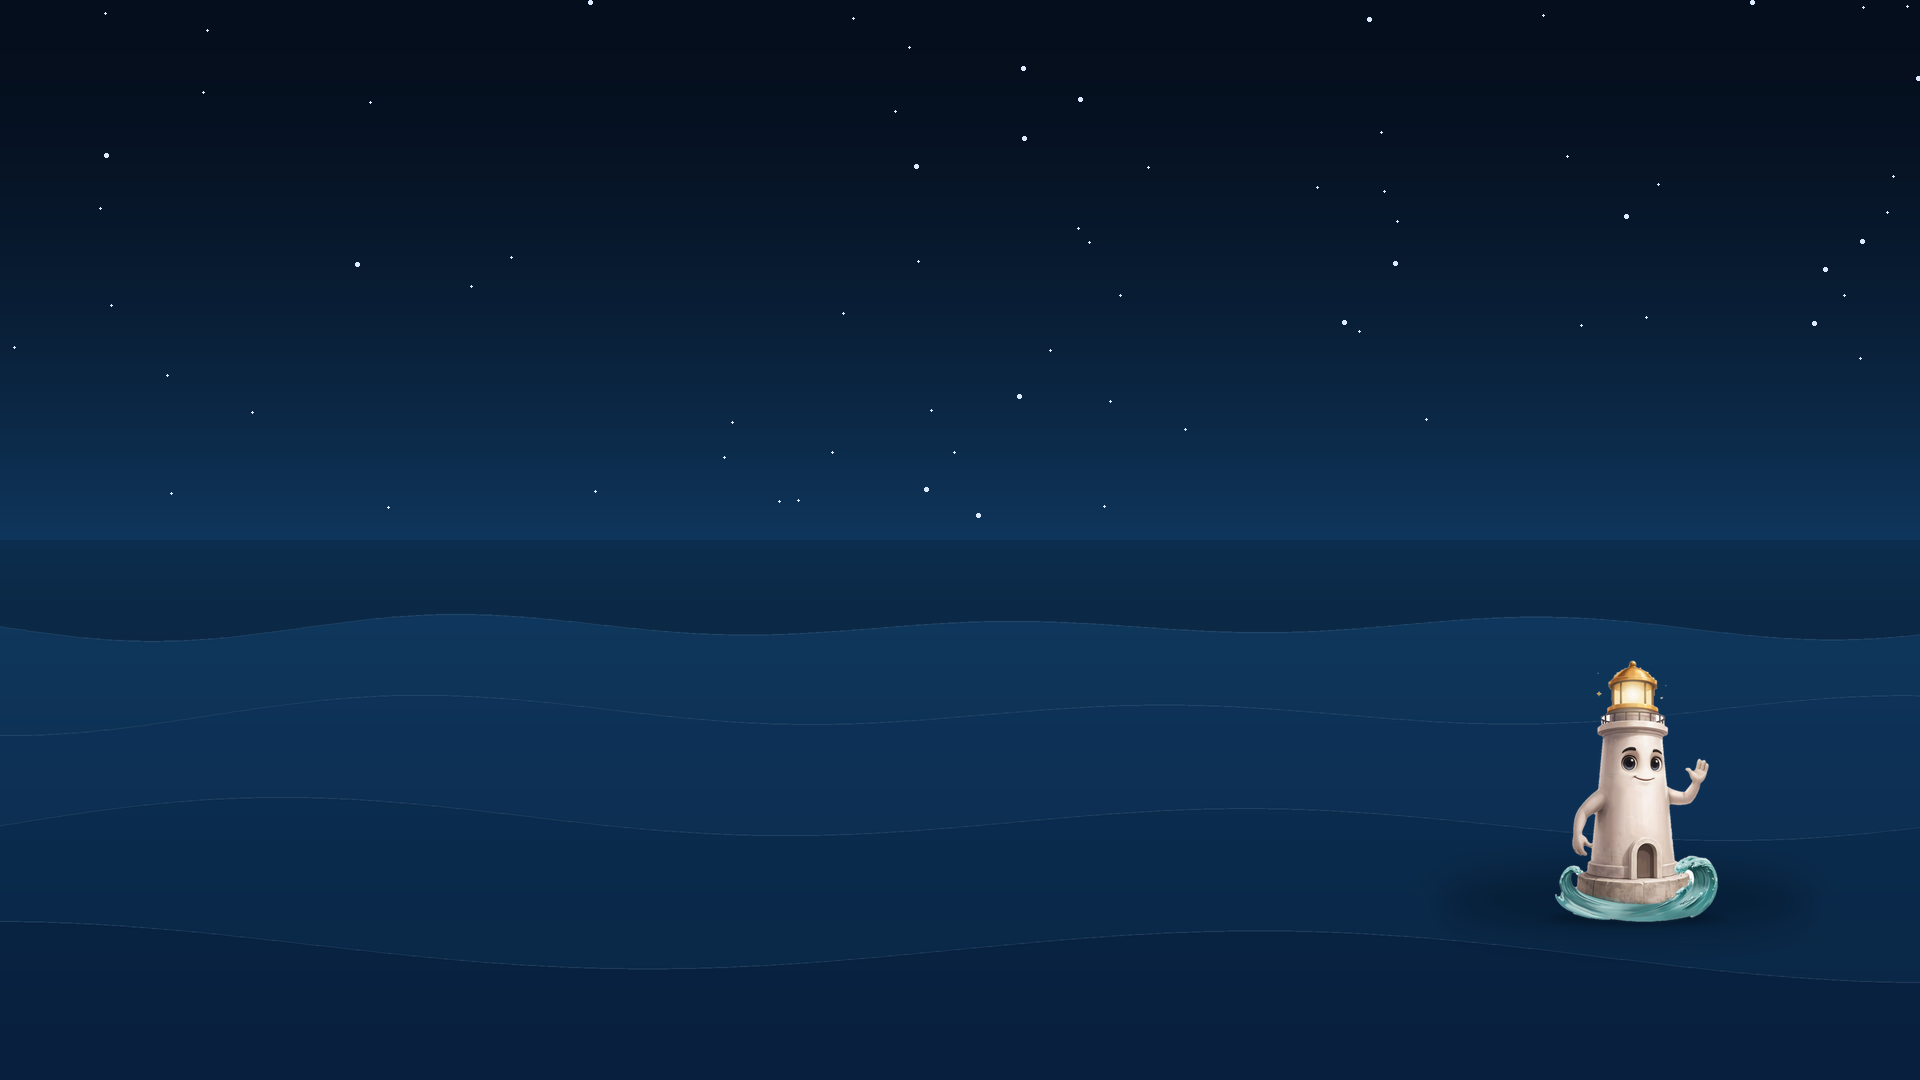
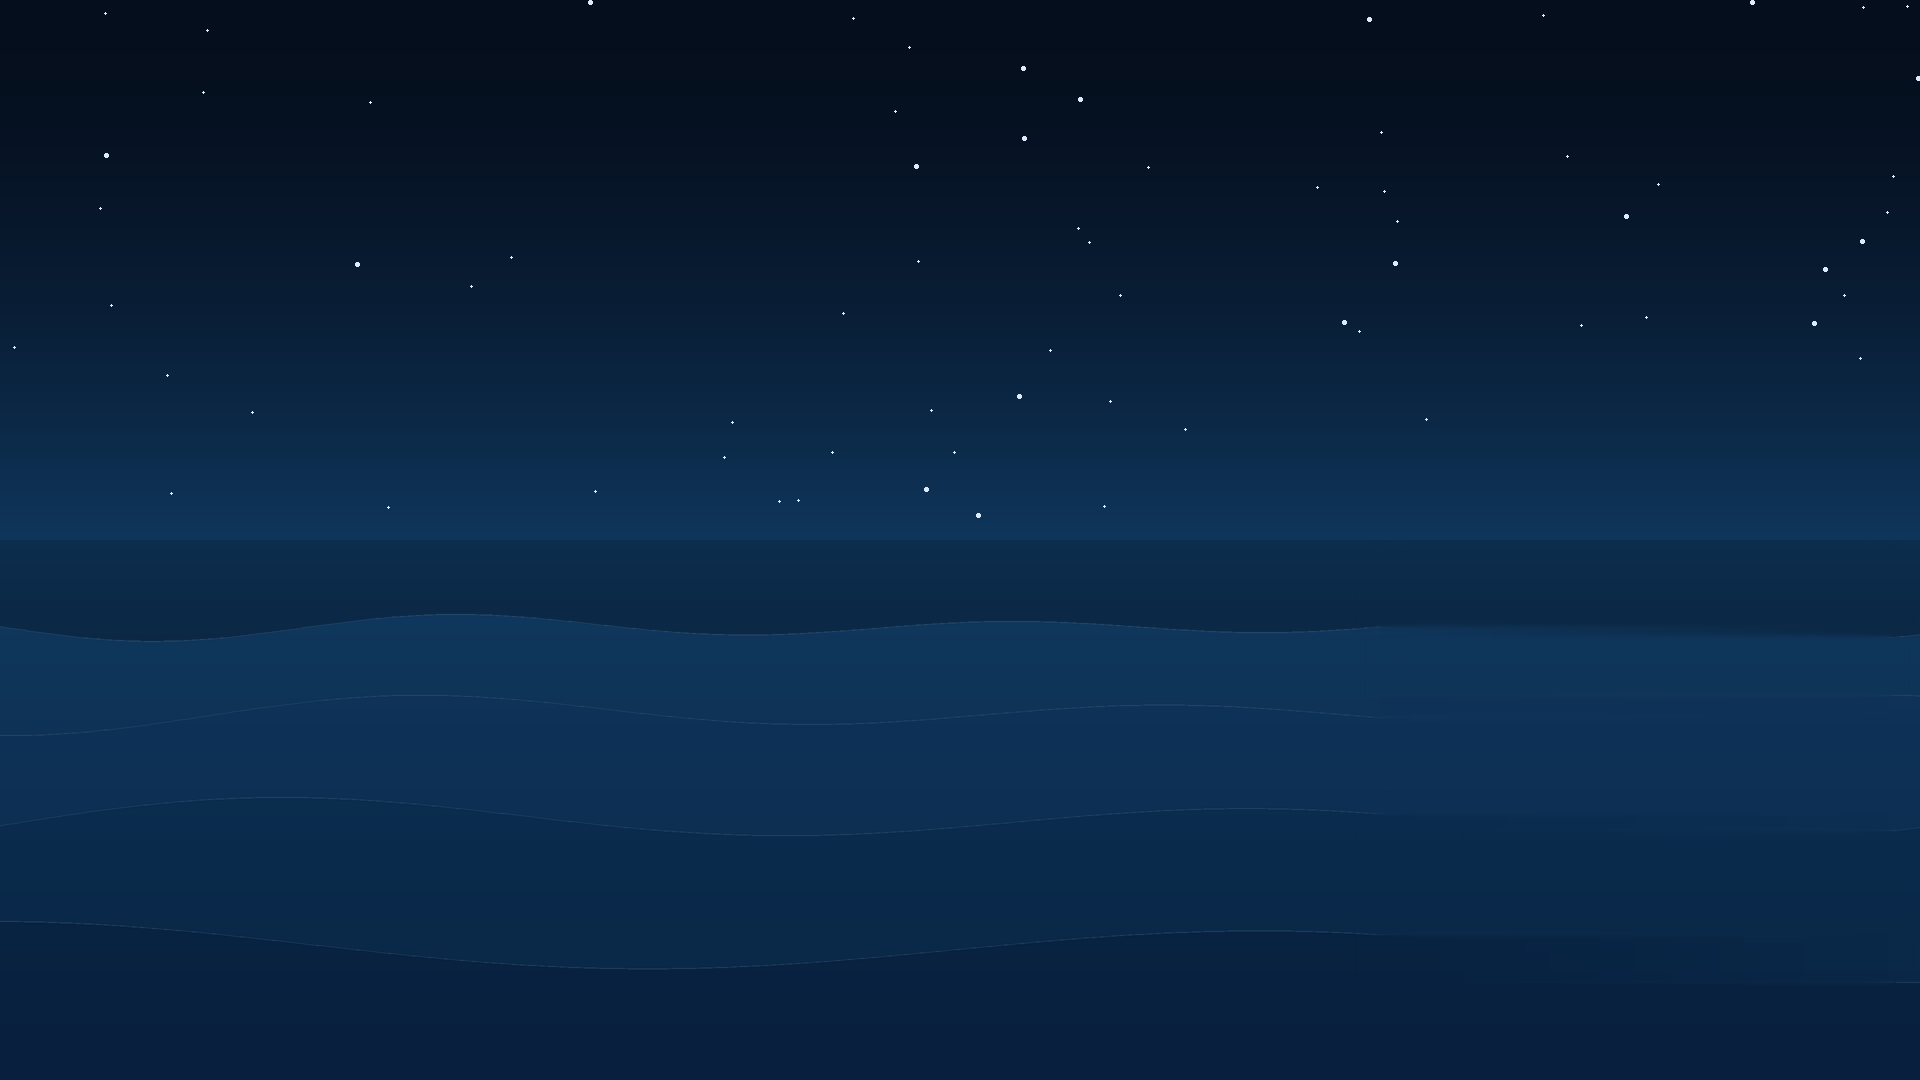
Mascotte: widget del desktop con la X al passaggio del mouse (sfondo scuro senza mascotte dipinta)
Claude-Session: https://claude.ai/code/session_01VnBgzVWwMfYhH3oySQLrtR

Changed region(s): [[0.8125, 0.6111, 0.9062, 0.8556]]

diff --git a/live/config/includes.chroot_after_packages/usr/share/plasma/plasmoids/org.sofios.mascotte/contents/ui/main.qml b/live/config/includes.chroot_after_packages/usr/share/plasma/plasmoids/org.sofios.mascotte/contents/ui/main.qml
@@ -1,0 +1,62 @@
+// Mascotte SofiOS: il faro sulla scrivania. Passandoci sopra con il mouse compare una X che la toglie
+// (si rimette da «Aggiungi widget»). Un giorno un clic aprirà l'assistente.
+import QtQuick
+import QtQuick.Layouts
+import org.kde.plasma.plasmoid
+import org.kde.plasma.core as PlasmaCore
+import org.kde.kirigami as Kirigami
+
+PlasmoidItem {
+    id: root
+
+    preferredRepresentation: fullRepresentation
+    Plasmoid.backgroundHints: PlasmaCore.Types.NoBackground
+
+    fullRepresentation: Item {
+        id: scena
+        implicitWidth: 180
+        implicitHeight: 284
+        Layout.minimumWidth: 90
+        Layout.minimumHeight: 142
+
+        HoverHandler { id: sopra }
+
+        Image {
+            anchors.fill: parent
+            source: Qt.resolvedUrl("../images/mascotte.png")
+            fillMode: Image.PreserveAspectFit
+            smooth: true
+            mipmap: true
+        }
+
+        // la X: compare solo con il mouse sopra
+        Rectangle {
+            id: chiudi
+            width: 28; height: 28; radius: 14
+            anchors.top: parent.top; anchors.right: parent.right
+            anchors.topMargin: 6; anchors.rightMargin: 6
+            color: xArea.containsMouse ? "#d6453a" : "#cc0b2740"
+            border.color: "#66ffffff"; border.width: 1
+            opacity: (sopra.hovered || xArea.containsMouse) ? 1 : 0
+            visible: opacity > 0
+            Behavior on opacity { NumberAnimation { duration: 140 } }
+
+            Text {
+                anchors.centerIn: parent
+                text: "✕"
+                color: "white"
+                font.pixelSize: 13
+                font.bold: true
+            }
+            MouseArea {
+                id: xArea
+                anchors.fill: parent
+                hoverEnabled: true
+                cursorShape: Qt.PointingHandCursor
+                onClicked: Plasmoid.internalAction("remove").trigger()
+            }
+            Accessible.role: Accessible.Button
+            Accessible.name: "Nascondi la mascotte"
+        }
+    }
+}

diff --git a/live/config/includes.chroot_after_packages/usr/share/plasma/look-and-feel/org.sofios.desktop/contents/layouts/org.kde.plasma.desktop-layout.js b/live/config/includes.chroot_after_packages/usr/share/plasma/look-and-feel/org.sofios.desktop/contents/layouts/org.kde.plasma.desktop-layout.js
@@ -3,6 +3,10 @@ desktops().forEach(function (d) {
     d.wallpaperPlugin = "org.kde.image";
     d.currentConfigGroup = ["Wallpaper", "org.kde.image", "General"];
     d.writeConfig("Image", "file:///usr/share/wallpapers/SofiOS");
+    // la mascotte (un widget: ha la sua X per toglierla), in basso a destra sopra il dock
+    var gs = {width: 1280, height: 800};
+    try { gs = screenGeometry(d.screen); } catch (e) {}
+    d.addWidget("org.sofios.mascotte", Math.max(0, gs.width - 180 - 50), Math.max(0, gs.height - 284 - 110), 180, 284);
 });
 
 // --- Barra in alto ---

diff --git a/tools/sfondo_senza_mascotte.py b/tools/sfondo_senza_mascotte.py
@@ -1,0 +1,22 @@
+#!/usr/bin/env python3
+"""Toglie la mascotte dipinta nello sfondo scuro (ora è un widget). Uso: sfondo_senza_mascotte.py ORIGINALE.png USCITA.png"""
+import sys
+import numpy as np
+from PIL import Image, ImageFilter
+a = np.asarray(Image.open(sys.argv[1]).convert("RGB")).astype(float)
+H, W, _ = a.shape
+x0, x1 = 1380, 1890           # il bordo sinistro e destro della zona da ricostruire (mascotte e ombra)
+y0, y1 = 560, 1000
+out = a.copy()
+# per ogni riga: passaggio morbido tra il colore a sinistra e quello a destra della zona
+for y in range(y0, y1):
+    L = a[y, x0 - 12:x0].mean(axis=0); R = a[y, x1:x1 + 12].mean(axis=0)
+    t = np.linspace(0, 1, x1 - x0)[:, None]
+    out[y, x0:x1] = L * (1 - t) + R * t
+# le righe sottili delle onde: la zona è ricostruita con un velo di sfumatura verticale per non lasciare scalini
+zona = Image.fromarray(out.astype(np.uint8)).crop((x0 - 30, y0 - 20, x1 + 30, y1 + 20)).filter(ImageFilter.GaussianBlur(2.5))
+mask = np.zeros((y1 - y0 + 40, x1 - x0 + 60), float); mask[20:-20, 30:-30] = 1
+mask = np.asarray(Image.fromarray((mask * 255).astype(np.uint8)).filter(ImageFilter.GaussianBlur(12))).astype(float)[..., None] / 255
+base = out[y0 - 20:y1 + 20, x0 - 30:x1 + 30]
+out[y0 - 20:y1 + 20, x0 - 30:x1 + 30] = base * (1 - mask) + np.asarray(zona).astype(float) * mask
+Image.fromarray(np.clip(out, 0, 255).astype(np.uint8)).save(sys.argv[2], optimize=True)

diff --git a/tools/foto-iso.py b/tools/foto-iso.py
@@ -83,6 +83,11 @@ def clic(x, y, w=1280, h=800):
     qmp_eventi([{"type": "abs", "data": {"axis": "x", "value": ax}}, {"type": "abs", "data": {"axis": "y", "value": ay}}]); time.sleep(0.6)
     qmp_eventi([{"type": "btn", "data": {"down": True, "button": "left"}}]); time.sleep(0.2)
     qmp_eventi([{"type": "btn", "data": {"down": False, "button": "left"}}]); time.sleep(0.8)
+def muovi(x, y, w=1280, h=800):
+    """sposta il mouse assoluto senza cliccare (per vedere cosa compare al passaggio)"""
+    if qmp is None: return
+    ax = int(x * 32767 / w); ay = int(y * 32767 / h)
+    qmp_eventi([{"type": "abs", "data": {"axis": "x", "value": ax}}, {"type": "abs", "data": {"axis": "y", "value": ay}}]); time.sleep(1.2)
 def tasti(*k):
     for t in k:
         cmdmon(f"sendkey {t}"); time.sleep(0.3)
@@ -241,6 +246,13 @@ try:
         tasti("esc"); time.sleep(2)
     except Exception as e:
         L("errore nel menu", repr(e))
+    try:
+        L("mascotte: passaggio del mouse e X")
+        muovi(1140, 560); foto("mascotte-mouse-sopra")
+        muovi(1210, 426); foto("mascotte-x")
+        clic(1210, 426); time.sleep(2); foto("mascotte-tolta")
+    except Exception as e:
+        L("errore prova mascotte", repr(e))
     try:
         L("schermata: blocco")
         tasti("alt-f2"); time.sleep(3); scrivi("loginctl lock-session"); time.sleep(3); tasti("ret")
